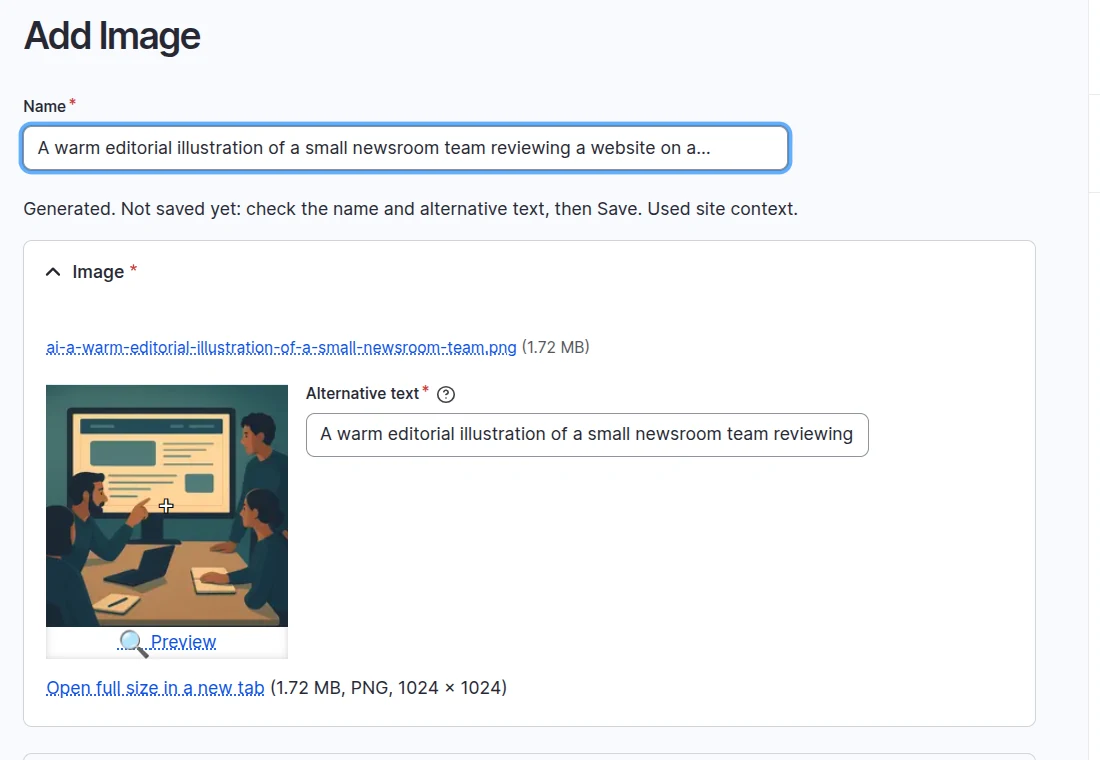
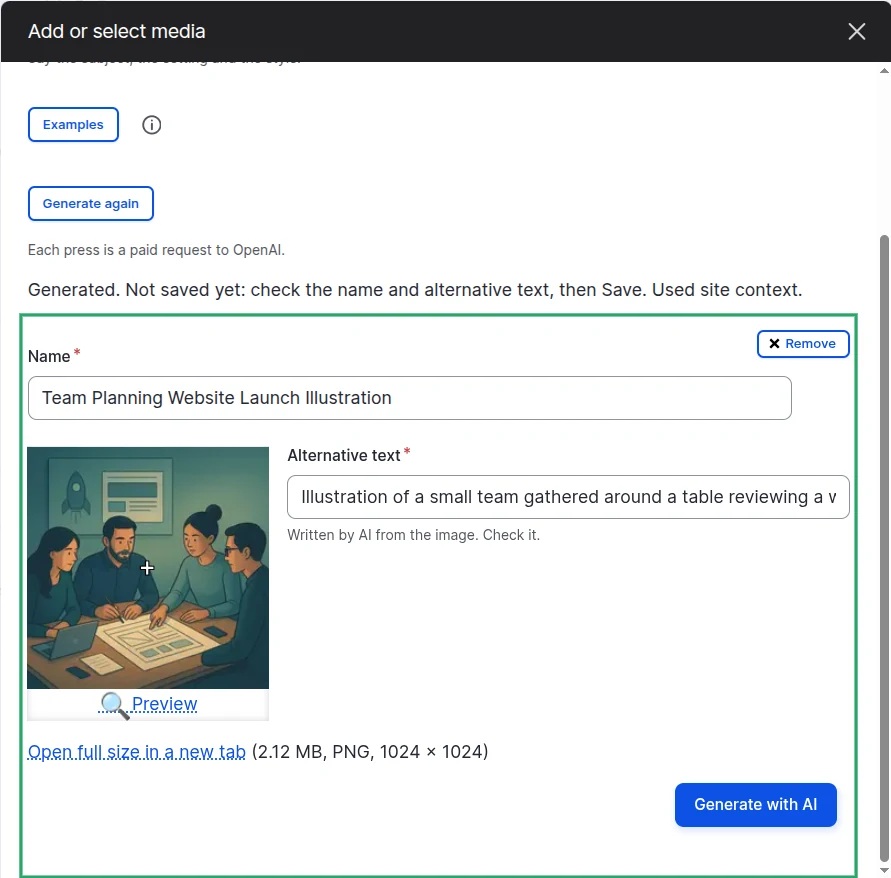
docs: #168 Show the Generate with AI switch and the new AI Media 1.0.x flow on the Varbase AI Media Base page (#169)
AI-Generated: Yes

Changed region(s): [[0.0, 0.1211, 1.0, 1.0], [0.0, 0.0, 1.0, 0.0908]]

diff --git a/developers/understanding-varbase/varbase-ai-recipes/varbase-ai-media-base.md b/developers/understanding-varbase/varbase-ai-recipes/varbase-ai-media-base.md
@@ -1,6 +1,6 @@
 # Varbase AI Media Base
 
-The **Varbase AI Media Base** recipe lets editors generate images and SVGs with AI on Varbase 11. It installs the **AI Media** module, which saves what it generates into the site's own **Image** and **SVG Image** media types, adds the AI tabs to the **Media Library**, and grants the permissions to the editorial roles. It is configuration only, with no custom PHP.
+The **Varbase AI Media Base** recipe lets editors generate images and SVGs with AI on Varbase 11. It installs the **AI Media** module, which saves what it generates into the site's own **Image** and **SVG Image** media types, adds **Generate with AI** to the **Media Library**, and grants the permissions to the editorial roles. It is configuration only, with no custom PHP.
 
 ## Recipe Type
 
@@ -22,10 +22,16 @@ Varbase AI
 
 Editors find the generators in these places:
 
-- The **Media Library**, as a **Generate image with AI** tab right after **Image** and a **Generate SVG with AI** tab right after **SVG Image**. Each tab is marked **New** until it is opened.
+- The **Media Library**, inside the tab of each media type: the **Image**, **SVG Image** and **Video** tabs open with an **Upload | Generate with AI** switch. **Generate with AI** is marked **New** until it is opened.
 - **Insert Media** in CKEditor for the **Full HTML** text format.
-- The **Add media** page (`/media/add/image`, `/media/add/svg_image`), which keeps the file upload and adds **Or generate with AI** below it.
-- **Content** \ _**Media**_, through the **Generate media with AI** button.
+- The **Add media** page (`/media/add/image`, `/media/add/svg_image`), which starts with the same **Upload | Generate with AI** switch.
+- **Content** \ _**Media**_, through the **Generate media with AI** button, which opens the **Add media** page in **Generate with AI** mode.
+
+{% hint style="info" %}
+The **Upload | Generate with AI** switch, the **Examples** button, the alternative text written by AI from the image and **Focal Point** on a generated image need **AI Media** `1.0.x`, the next release after `1.0.0-alpha3`. With `1.0.0-alpha3`, editors get a separate **Generate image with AI** tab instead.
+{% endhint %}
+
+<figure><img src="../../../.gitbook/assets/Varbase AI Media Base - Upload or Generate With AI.webp" alt="The Add or select media dialog on the Image tab, with an Upload and Generate with AI switch at the top, Generate with AI marked New, and the file upload below"><figcaption><p>The Upload or Generate With AI Switch in the Image Tab</p></figcaption></figure>
 
 ## Included Modules
 
@@ -73,21 +79,26 @@ Applying the recipe twice is safe.
 
 ## Generating an Image
 
-1. Open the **Generate image with AI** tab in the **Media Library**, or the **Add media** page for **Image**.
-2. Describe the image: the subject, the setting and the style. The example buttons put a sample description in the field. The form names the provider your description is sent to.
+1. Open the **Image** tab in the **Media Library**, or the **Add media** page for **Image**, and choose **Generate with AI**.
+2. Describe the image: the subject, the setting and the style. The field starts empty. **Examples** opens a list of up to eight sample descriptions; pick one to put it in the field. The info button next to it says which provider your description is sent to.
 3. Press **Generate image**. Each press is one paid request to the provider.
-4. Review the result. The name and alternative text are prefilled from the description; change them to match what the image shows.
-5. Press **Save**. Nothing is added to the library until you save.
+4. Review the result. AI writes the name and the alternative text from the image, marked **Written by AI from the image. Check it.** Change them if they do not match what the image shows.
+5. Set the **Focal Point** if needed. The crosshair starts in the centre of the image.
+6. Press **Save**. Nothing is added to the library until you save.
 
-<figure><img src="../../../.gitbook/assets/Varbase AI Media Base - Or Generate With AI.webp" alt="The Add Image page with the file upload, then an Or generate with AI box holding the image description field, two example descriptions, a note naming the provider and the Generate image button"><figcaption><p>Or Generate With AI on the Add Image Page</p></figcaption></figure>
+<figure><img src="../../../.gitbook/assets/Varbase AI Media Base - Generate With AI Mode.webp" alt="The Image tab in Generate with AI mode, with an empty Describe the image field, an Examples button, an info button, the Generate image button and a note that each press is a paid request to the provider"><figcaption><p>Generate With AI Mode in the Image Tab</p></figcaption></figure>
 
-<figure><img src="../../../.gitbook/assets/Varbase AI Media Base - Generate Image With AI Tab.png" alt="The Add or select media dialog with the Generate image with AI tab selected after Image, a description field, two example prompts, a note naming the provider, and the Generate image button"><figcaption><p>The Generate Image With AI Tab in the Media Library</p></figcaption></figure>
+<figure><img src="../../../.gitbook/assets/Varbase AI Media Base - Example Descriptions.webp" alt="The Examples list open under the description field, with eight sample image descriptions and a note that picking one replaces the text in the box"><figcaption><p>Picking an Example Description</p></figcaption></figure>
 
-<figure><img src="../../../.gitbook/assets/Varbase AI Media Base - Review Generated Image.webp" alt="A generated illustration of a team reviewing a website, ready for review with the name and alternative text prefilled from the description and a note that it is not saved yet"><figcaption><p>Reviewing a Generated Image Before Saving</p></figcaption></figure>
+<figure><img src="../../../.gitbook/assets/Varbase AI Media Base - Review Generated Image.webp" alt="A generated illustration of a team planning around a table, with the name and alternative text written by AI from the image, the Focal Point crosshair in the centre, and a Generate with AI button under the alternative text"><figcaption><p>Reviewing a Generated Image Before Saving</p></figcaption></figure>
+
+{% hint style="info" %}
+When the **AI Image Alt Text** module is enabled, its **Generate with AI** button stays under the image, so you can write the alternative text again. The first time, it asks for consent to send the image to the AI provider; accept it to continue.
+{% endhint %}
 
 ## Generating an SVG
 
-The **Generate SVG with AI** tab works the same way and saves into **SVG Image**. Every SVG is checked and cleaned before it is kept, so it holds no scripts or outside links.
+Choose **Generate with AI** in the **SVG Image** tab. It works the same way and saves into **SVG Image**. Every SVG is checked and cleaned before it is kept, so it holds no scripts or outside links.
 
 An SVG can be static or animated. Editors see the **Style** option under **Options** only when **Editor options** \ **SVG** \ _**Show the style**_ is on in the **AI Media** settings. The styles are:
 
@@ -102,30 +113,38 @@ An SVG can be static or animated. Editors see the **Style** option under **Optio
 An animated SVG moves only when it is shown inline: with the **Inline SVG (animated)** display on the media type, or with the **Animated SVG** component. Shown as a plain image, it stays still. Visitors who ask for reduced motion see the finished drawing.
 {% endhint %}
 
-<figure><img src="../../../.gitbook/assets/Varbase AI Media Base - Review Generated SVG.png" alt="A generated SVG icon of a lighthouse in the Media Library, with the name and alternative text prefilled from the description, before saving"><figcaption><p>Reviewing a Generated SVG Before Saving</p></figcaption></figure>
+<figure><img src="../../../.gitbook/assets/Varbase AI Media Base - SVG Image Tab Switch.webp" alt="The SVG Image tab of the Add or select media dialog, with the Upload and Generate with AI switch at the top and an upload area that allows SVG files"><figcaption><p>The Upload or Generate With AI Switch in the SVG Image Tab</p></figcaption></figure>
 
 ## Generating a Video
 
-The **Video** generator is experimental and off by default. It needs a provider that offers **image to video**, and none of the common providers (**OpenAI**, **Gemini**, **Anthropic**, **amazee.ai**) does yet. Video generation has not been tested on Varbase.
+The **Video** generator is experimental and off by default. When it is turned on, the **Video** tab gets the same **Upload | Generate with AI** switch. It needs a provider that offers **image to video**, and none of the common providers (**OpenAI**, **Gemini**, **Anthropic**, **amazee.ai**) does yet. Video generation has not been tested on Varbase.
+
+<figure><img src="../../../.gitbook/assets/Varbase AI Media Base - Video Tab Switch.webp" alt="The Video tab of the Add or select media dialog, with the Upload and Generate with AI switch at the top and an upload area that allows MP4 files"><figcaption><p>The Upload or Generate With AI Switch in the Video Tab</p></figcaption></figure>
 
 ## AI Media Settings
 
 Configure the generators at **Administration** \ **Configuration** \ **AI** \ _**AI Media**_ (`/admin/config/ai/ai-media`):
 
-- **Generators**: shows or hides the AI tabs, sets where they appear, and picks the media type, formats and order of each generator.
+- **Generators**: shows or hides **Generate with AI** in the **Media Library**, sets where it appears, and picks the media type, formats and order of each generator.
 - **Editor options**: what editors may choose under **Options**, such as size, format, model and the SVG style. All are hidden by default.
 - **Name, title and alternative text**: fills each from the description, asks AI, or leaves it empty.
 - **Safety**: attaches one of the site's guardrail sets to every **AI Media** request.
 - **Site context**: uses the site's **AI Context** items.
 - **Description** and **Advanced**: the description length, example descriptions, dictation and file handling.
 
-<figure><img src="../../../.gitbook/assets/Varbase AI Media Base - AI Media Settings.webp" alt="The Generators tab of the AI Media settings, with options to offer the AI tabs in the Media Library, place them right after their media type, show a New badge, and a table of generators with their media type"><figcaption><p>The Generators Tab in the AI Media Settings</p></figcaption></figure>
+**Where should the AI tabs appear?** on the **Generators** tab has three choices:
+
+- **Inside the tab of their media type**: the **Upload | Generate with AI** switch. This is the default.
+- **As a tab of their own, right after the tab of their media type**: a **Generate image with AI** tab after **Image**, a **Generate SVG with AI** tab after **SVG Image**, and so on.
+- **As a tab of their own, after all the other tabs**.
+
+<figure><img src="../../../.gitbook/assets/Varbase AI Media Base - Where the AI Tabs Appear.webp" alt="The Generators tab of the AI Media settings, with the Offer the AI tabs in the Media Library toggle, the three choices for where the AI tabs appear with Inside the tab of their media type selected, and the Show a New badge toggle"><figcaption><p>Where the AI Tabs Appear in the AI Media Settings</p></figcaption></figure>
 
 When **AI Logging** or **AI Observability** is enabled, **AI Media** requests are tagged with `ai_media`, so you can filter them there.
 
 ## Troubleshooting
 
-- **No AI tab**: check that the generator is enabled and has a media type, that the media type is allowed in that field or text format, that the user may generate and create that media, and that **Drupal AI** has a default provider for the operation.
+- **No Generate with AI**: check that the generator is enabled and has a media type, that the media type is allowed in that field or text format, that the user may generate and create that media, and that **Drupal AI** has a default provider for the operation.
 - **"… generation is not set up"**: set a default provider for the operation in the **Drupal AI** settings.
 - **An animated SVG does not move**: show it with the **Inline SVG (animated)** display or the **Animated SVG** component.
 
